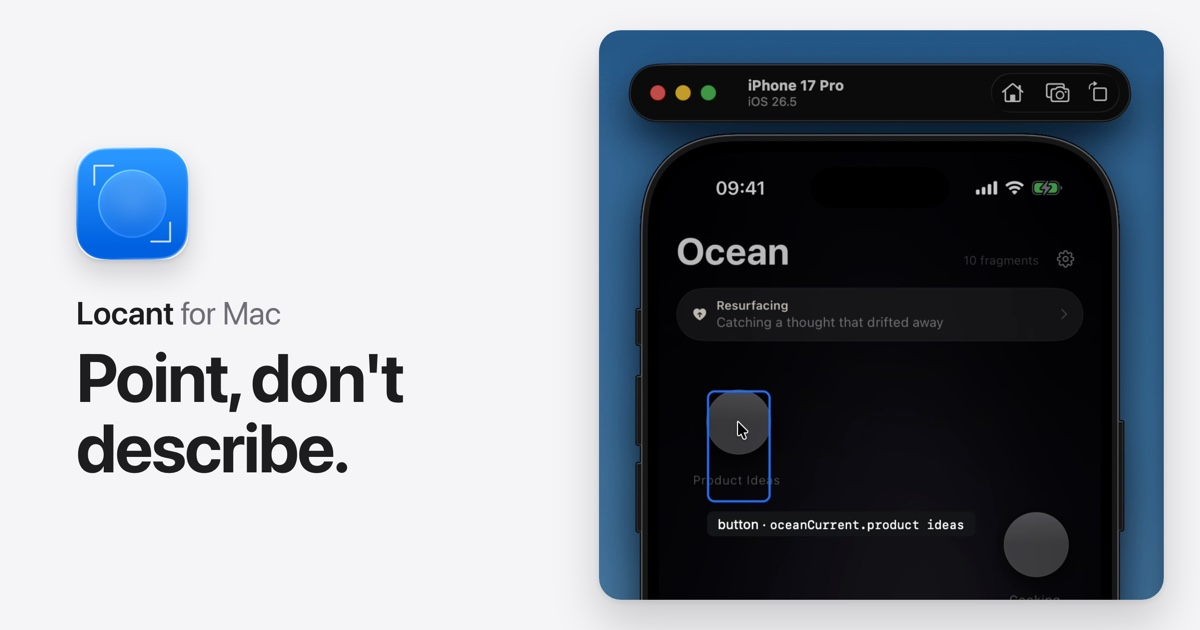
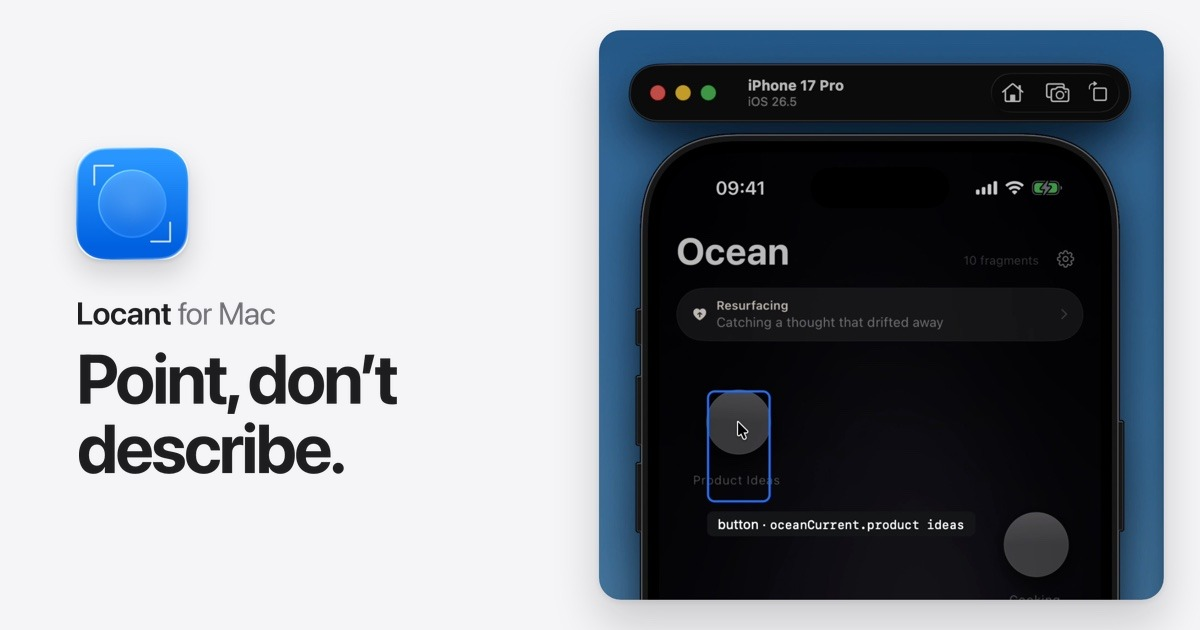
site: pre-launch polish for Product Hunt
- Phones and tablets: the download buttons become "Send to your Mac" (the share
  sheet, else the link is copied) and a note says Locant runs on a Mac; without
  script they stay downloads.
- Hero: "Open source" beside Free, and the Homebrew command with a Copy button
  (hidden on phones).
- The hero and nav icon load 256 px copies (37 KB, was 530 KB); the 512 renders
  stay for the README.
- A canonical link, so ?ref=producthunt visits count as one page.
- "the ball" is "the floating ball" where a visitor first meets it.
- The demo's line under the steps says how to start, so it is never an empty gap
  on a phone.
- og.jpg: the headline re-set with the curly apostrophe; linked with ?v=2.

Changed region(s): [[0.0617, 0.5429, 0.3392, 0.754], [0.0617, 0.4825, 0.2467, 0.5127]]

diff --git a/site/index.html b/site/index.html
@@ -7,12 +7,13 @@
 <link rel="icon" type="image/png" sizes="32x32" href="assets/favicon-32.png">
 <link rel="icon" type="image/png" sizes="64x64" href="assets/favicon-64.png">
 <link rel="apple-touch-icon" href="assets/apple-touch-icon.png">
+<link rel="canonical" href="https://locant.malikzhang.com/">
 <meta property="og:type" content="website">
 <meta property="og:url" content="https://locant.malikzhang.com/">
 <meta property="og:site_name" content="Locant">
 <meta property="og:title" content="Locant: Point, don’t describe.">
 <meta property="og:description" content="Point at one element in any app. Your coding agent gets the element, not a screenshot.">
-<meta property="og:image" content="https://locant.malikzhang.com/assets/og.jpg">
+<meta property="og:image" content="https://locant.malikzhang.com/assets/og.jpg?v=2">
 <meta property="og:image:width" content="1200">
 <meta property="og:image:height" content="630">
 <meta property="og:image:alt" content="The Locant icon and the words Point, don’t describe, beside the overlay outlining an orb in the iPhone Simulator, labeled button · oceanCurrent.product ideas.">
@@ -38,7 +39,7 @@
     --key-bg: #ffffff;
     --shadow: 0 1px 2px rgba(0,0,0,.06), 0 12px 32px rgba(0,0,0,.08);
     --icon-shadow: 0 2px 4px rgba(0,0,0,.10), 0 14px 28px rgba(0,0,0,.16);
-    --icon: url("assets/icon-light.png");
+    --icon: url("assets/icon-light-256.png");
     --show-light: block; --show-dark: none;
     color-scheme: light;
   }
@@ -62,7 +63,7 @@
       --key-bg: #2c2c2e;
       --shadow: 0 1px 2px rgba(0,0,0,.4), 0 12px 32px rgba(0,0,0,.5);
       --icon-shadow: 0 2px 4px rgba(0,0,0,.4), 0 14px 28px rgba(0,0,0,.5);
-      --icon: url("assets/icon-dark.png");
+      --icon: url("assets/icon-dark-256.png");
       --show-light: none; --show-dark: block;
       color-scheme: dark;
     }
@@ -86,7 +87,7 @@
     --key-bg: #2c2c2e;
     --shadow: 0 1px 2px rgba(0,0,0,.4), 0 12px 32px rgba(0,0,0,.5);
     --icon-shadow: 0 2px 4px rgba(0,0,0,.4), 0 14px 28px rgba(0,0,0,.5);
-    --icon: url("assets/icon-dark.png");
+    --icon: url("assets/icon-dark-256.png");
     --show-light: none; --show-dark: block;
     color-scheme: dark;
   }
@@ -169,6 +170,13 @@
   .link:hover { text-decoration: underline; }
   .fine { font-size: 14px; color: var(--muted); }
   .fine span + span::before { content: "·"; margin-inline: 8px; }
+  /* the Homebrew line: the command, and a button that copies it */
+  .brew { display: inline-flex; align-items: center; gap: 6px; margin-top: -6px; padding: 4px 4px 4px 12px; border-radius: 10px; background: var(--surface); box-shadow: 0 0 0 1px var(--hair); max-width: 100%; }
+  .brew code { font-family: ui-monospace, "SF Mono", Menlo, monospace; font-size: 13px; color: var(--ink); white-space: nowrap; overflow: hidden; text-overflow: ellipsis; }
+  .brew .copy { font: inherit; font-size: 12px; font-weight: 500; border: 0; border-radius: 7px; padding: 5px 9px; background: var(--frame); color: var(--ink); cursor: pointer; flex: none; }
+  .brew .copy:focus-visible { outline: 2px solid var(--accent); outline-offset: 2px; }
+  .mac-note { margin-top: -6px; }
+  .brew[hidden], .mac-note[hidden] { display: none; }   /* their own display would otherwise beat [hidden] */
 
   /* the hero film: two real changes, recorded (an iPhone app, then a website), about forty seconds */
   .demo { display: block; width: 100%; max-width: 100%; height: auto; border-radius: 18px; box-shadow: var(--shadow); margin-top: 36px; }
@@ -539,7 +547,9 @@
       <a class="btn" href="https://github.com/Malik1942/locant/releases/latest/download/Locant.dmg">Download for Mac</a>
       <a class="link" href="https://github.com/Malik1942/locant">View on GitHub</a>
     </div>
-    <p class="fine"><span>Free</span><span>macOS 15 or later</span></p>
+    <p class="fine"><span>Free</span><span>Open source</span><span>macOS 15 or later</span></p>
+    <p class="brew" id="brew"><code>brew install Malik1942/locant/locant</code><button type="button" class="copy" aria-label="Copy the Homebrew command">Copy</button></p>
+    <p class="fine mac-note" id="mac-note" hidden>Locant runs on a Mac. Send this page to yours to download&nbsp;it.</p>
   </header>
 
   <figure class="wide" style="margin-block: 0;">
@@ -558,7 +568,7 @@
   <section class="col" id="how">
     <div class="sect-head">
       <h2>Try it here</h2>
-      <p class="lede">One ball points at a website, a Mac app, and an iPhone app.</p>
+      <p class="lede">One floating ball points at a website, a Mac app, and an iPhone app.</p>
     </div>
     <div class="steps" id="steps" aria-live="polite">
       <span class="s on"><b>1</b>Point</span><span class="s"><b>2</b>Note</span><span class="s"><b>3</b>Paste</span>
@@ -724,7 +734,7 @@ Library" style="left:70.000%;top:16.000%;width:19.531%;height:65.887%">
   <section class="col" id="actions">
     <div class="sect-head">
       <h2>Four more tools</h2>
-      <p class="lede">Press and hold the ball.</p>
+      <p class="lede">Press and hold the floating ball.</p>
     </div>
     <div class="actions">
       <div class="action">
@@ -793,7 +803,7 @@ Library" style="left:70.000%;top:16.000%;width:19.531%;height:65.887%">
   <section class="col end">
     <h2>Try Locant on your Mac.</h2>
     <a class="btn" href="https://github.com/Malik1942/locant/releases/latest/download/Locant.dmg">Download for Mac</a>
-    <p class="fine"><span>Free</span><span>macOS 15 or later</span></p>
+    <p class="fine"><span>Free</span><span>Open source</span><span>macOS 15 or later</span></p>
   </section>
 
   <footer class="col">
@@ -837,6 +847,7 @@ Library" style="left:70.000%;top:16.000%;width:19.531%;height:65.887%">
   var V = touch ? 'Tap' : 'Click';
   ball.querySelector('.tip').textContent = V + ' to point';
   var AGAIN = V + ' the ball to point. Hold it for more tools.';   // after a first use; until then the label beside the ball says it
+  say.textContent = V + ' the ball, then ' + V.toLowerCase() + ' anything to point at it.';   // the start, so the line under the steps is never empty
 
   // mode: what the demo is doing. bs: the ball's own state, as FloatingBall.State.
   var mode = 'ball', bs = 'hidden';
@@ -1341,6 +1352,38 @@ Library" style="left:70.000%;top:16.000%;width:19.531%;height:65.887%">
   var sampleEl = stage.querySelector('[data-k="p-product-ideas"]');
   present(sampleEl, 'make this orb bigger, with satellite nodes like Light And Color', new Date(2026, 9, 13, 15, 30, 12));
   window.addEventListener('load', function () { drawCrop(sampleEl); fit(); });
+})();
+
+// Download buttons on a phone or tablet: a .dmg is no use there, so the button offers to send this page to a Mac
+// (the share sheet, so AirDrop or Messages), or copies the link where there is no share sheet. Without script the
+// buttons stay plain downloads. The Homebrew line goes, and a note says why.
+(function () {
+  var touchOnly = /iPhone|iPad|iPod|Android/.test(navigator.userAgent) || (navigator.platform === 'MacIntel' && navigator.maxTouchPoints > 1);
+  var brew = document.getElementById('brew');
+  if (brew) brew.querySelector('.copy').addEventListener('click', function () {
+    var b = this, cmd = brew.querySelector('code').textContent;
+    (navigator.clipboard ? navigator.clipboard.writeText(cmd) : Promise.reject()).then(function () {
+      b.textContent = 'Copied'; setTimeout(function () { b.textContent = 'Copy'; }, 1600);
+    }, function () { getSelection().selectAllChildren(brew.querySelector('code')); });
+  });
+  if (!touchOnly) return;
+  if (brew) brew.hidden = true;
+  var note = document.getElementById('mac-note'); if (note) note.hidden = false;
+  var url = 'https://locant.malikzhang.com/';
+  document.querySelectorAll('a[href$="Locant.dmg"]').forEach(function (a) {
+    var label = a.classList.contains('dl') ? 'Send to Mac' : 'Send to your Mac';
+    a.textContent = label;
+    a.addEventListener('click', function (e) {
+      e.preventDefault();
+      if (navigator.share) {
+        navigator.share({ title: 'Locant', text: 'Locant for Mac. Point, don\u2019t describe.', url: url }).catch(function () {});
+        return;
+      }
+      (navigator.clipboard ? navigator.clipboard.writeText(url) : Promise.reject()).then(function () {
+        a.textContent = 'Link copied'; setTimeout(function () { a.textContent = label; }, 2000);
+      }, function () { location.href = a.href; });
+    });
+  });
 })();
 
 // Scroll: each block rises in once as it enters the viewport. Without JS nothing is hidden.

diff --git a/docs/brand.md b/docs/brand.md
@@ -68,9 +68,9 @@ tests them.
 | Asset | Path | Notes |
 |---|---|---|
 | Icon, light and dark, 1024 and 512 | `design/icon/renders/` | rendered by `ictool` from the shipped package |
-| Site icon copies | `site/assets/icon-light.png`, `icon-dark.png` | 512, the page picks one per theme; the README shows the light one |
+| Site icon copies | `site/assets/icon-light.png`, `icon-dark.png`; `icon-light-256.png`, `icon-dark-256.png` | 512 for the README (the light one); the page draws the 256 copies (128 pt at 2x, about 37 KB each), one per theme |
 | Favicons | `site/assets/favicon-32.png`, `favicon-64.png`, `apple-touch-icon.png` | same package, rendered at size |
-| Share image | `site/assets/og.jpg` | 1200×630, the page's `og:image` |
+| Share image | `site/assets/og.jpg` | 1200×630, the page's `og:image` (linked with `?v=2` so previews refetch it). Nov 16, 2026: the headline was re-set with the curly apostrophe (don’t), the rest of the card unchanged |
 | The film, recorded | `site/assets/hero.mp4`, `hero-mobile.mp4`, `hero-poster.jpg`; `hero.gif` (the older loop) for the README | real takes: Point on an iPhone app in the Simulator and on a website, the paste in Cursor, and each change the agent made; captions are dark cards with a blue LOCANT label |
 | Try-it demo | `site/assets/desktop.jpg`, `scene-calculator.png`, `scene-iphone.jpg`, `scene-web.jpg` | the Tahoe Day wallpaper and three real windows; the overlay, label, note field, and ball are drawn over them in CSS from the app's tokens |
 | Glyphs | `site/assets/glyph-{snap,text,color,cut}.png`, `ball-hand.png` | the ring's four symbols and the hand on the ball, used as masks and tinted on the page |
